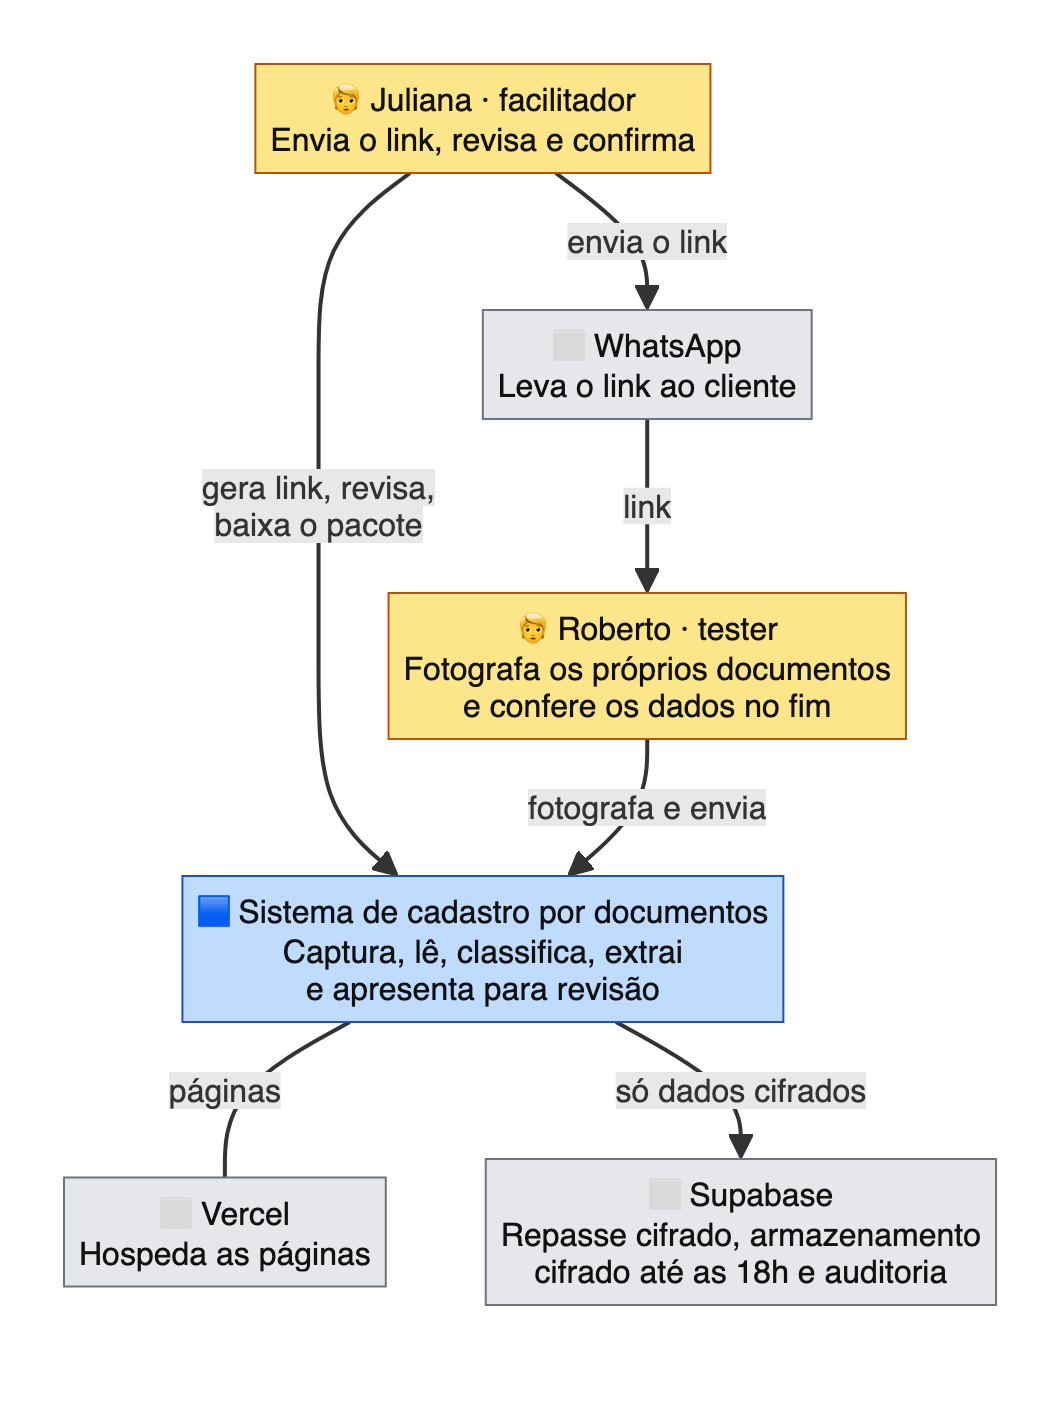
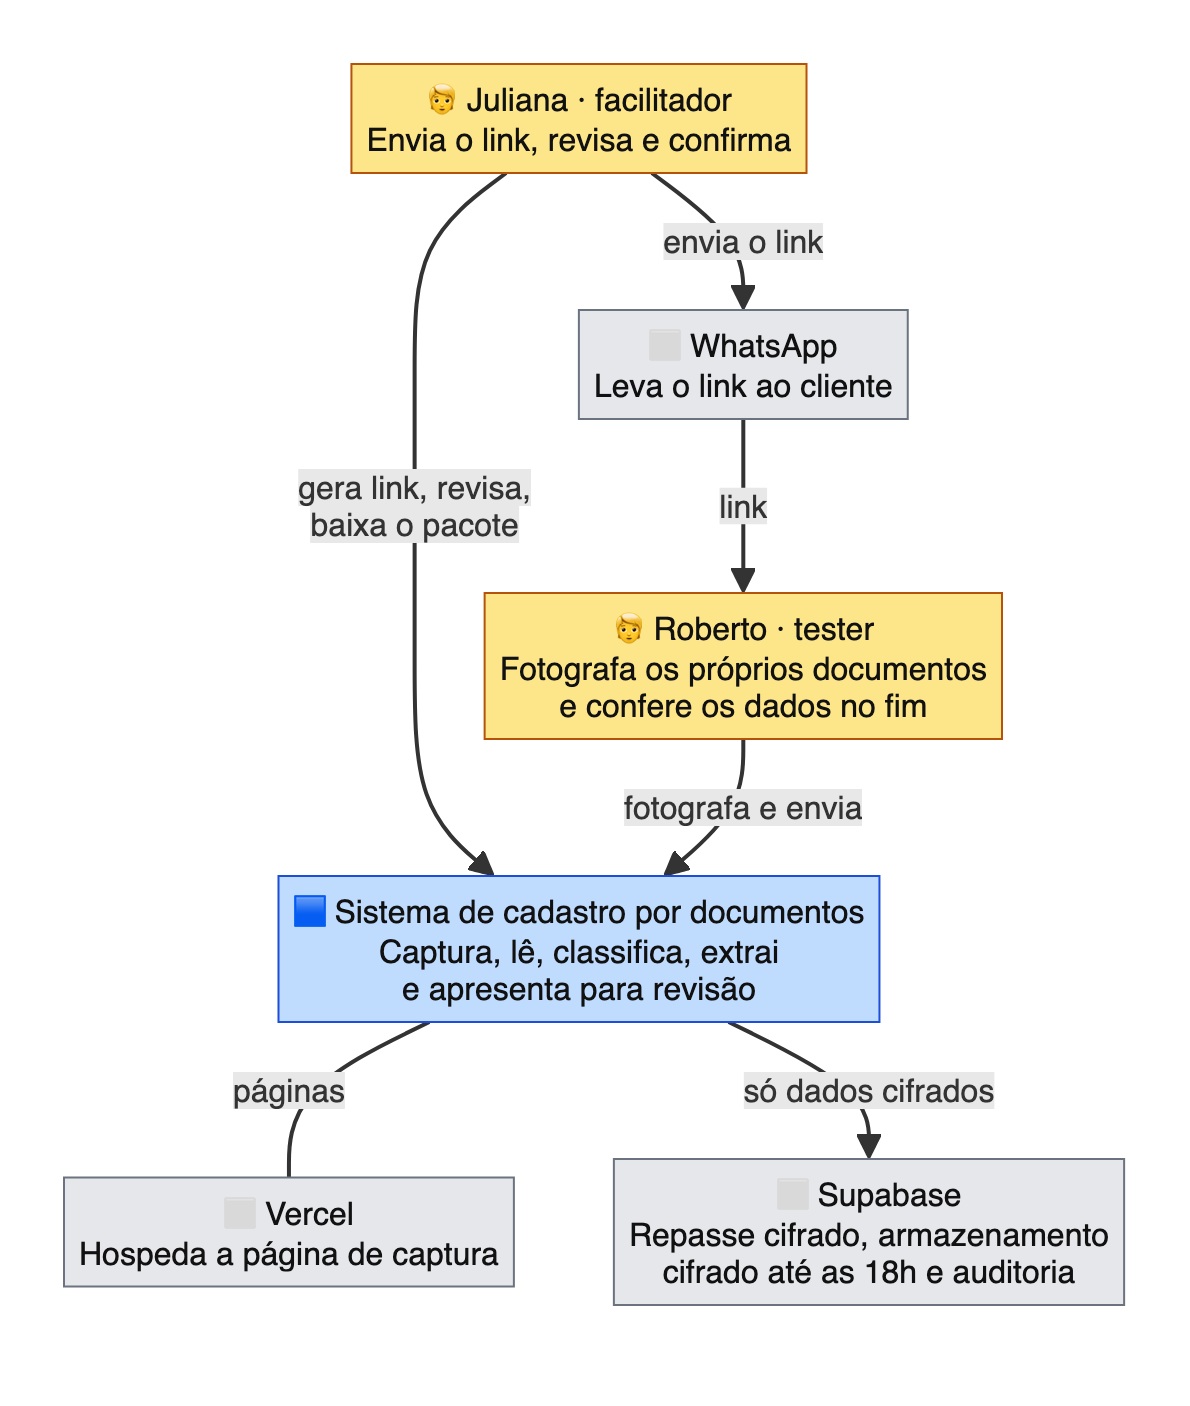
Etapa 8 concluída: prova de conceito 2 (Safari bloqueia) e ADR 0011

Changed region(s): [[0.0311, 0.0306, 0.9633, 0.9481]]

diff --git a/poc/02-localhost/pagina/local.html b/poc/02-localhost/pagina/local.html
@@ -1,0 +1,44 @@
+<!doctype html>
+<html lang="pt-BR">
+<head>
+<meta charset="utf-8">
+<meta name="viewport" content="width=device-width, initial-scale=1">
+<title>Prova de conceito 2b</title>
+<style>
+  :root { --bg:#fff; --fg:#111; --ok:#047857; --err:#b91c1c; --line:#e5e7eb; }
+  @media (prefers-color-scheme: dark) { :root:not([data-theme="light"]) { --bg:#111; --fg:#eee; --ok:#34d399; --err:#f87171; --line:#333; } }
+  body { background:var(--bg); color:var(--fg); font:16px/1.5 -apple-system, system-ui, sans-serif; margin:0; padding:16px; max-width:720px; }
+  button { font:inherit; padding:8px 14px; } pre { border:1px solid var(--line); padding:12px; white-space:pre-wrap; }
+  .ok { color:var(--ok); } .err { color:var(--err); }
+</style>
+</head>
+<body>
+<h1>Prova de conceito 2b</h1>
+<p>Esta página é servida pelo próprio motor, no Mac (localhost).</p>
+<button id="t">Rodar os testes</button>
+<pre id="saida">Aguardando…</pre>
+<script>
+  const s = document.getElementById('saida');
+  const log = (t, ok) => { s.innerHTML += `\n<span class="${ok ? 'ok' : 'err'}">${ok ? '✅' : '❌'} ${t}</span>`; };
+  document.getElementById('t').onclick = async () => {
+    s.textContent = navigator.userAgent;
+    log(`Contexto seguro: ${window.isSecureContext}`, window.isSecureContext);
+    try {
+      const k = await crypto.subtle.generateKey({ name: 'AES-GCM', length: 256 }, false, ['encrypt']);
+      await crypto.subtle.encrypt({ name: 'AES-GCM', iv: crypto.getRandomValues(new Uint8Array(12)) }, k, new Uint8Array(1024));
+      log('Criptografia do navegador (AES-GCM) disponível', true);
+    } catch (e) { log(`Criptografia: ${e.name}: ${e.message}`, false); }
+    try {
+      const r = await fetch('/processar', { method: 'POST', body: new Uint8Array(1024 * 1024) });
+      log(`Envio de 1 MB ao motor: ${JSON.stringify(await r.json())}`, r.ok);
+    } catch (e) { log(`Envio ao motor: ${e.name}: ${e.message}`, false); }
+    try {
+      const ws = new WebSocket('wss://echo.websocket.org');
+      await new Promise((ok, falha) => { ws.onopen = ok; ws.onerror = falha; setTimeout(falha, 5000); });
+      ws.close();
+      log('Conexão segura com serviço na internet (WebSocket, como o do Supabase)', true);
+    } catch (e) { log('Conexão WebSocket com a internet falhou', false); }
+  };
+</script>
+</body>
+</html>

diff --git a/poc/02-localhost/pagina/index.html b/poc/02-localhost/pagina/index.html
@@ -1,0 +1,43 @@
+<!doctype html>
+<html lang="pt-BR">
+<head>
+<meta charset="utf-8">
+<meta name="viewport" content="width=device-width, initial-scale=1">
+<title>Prova de conceito 2</title>
+<style>
+  :root { --bg:#fff; --fg:#111; --muted:#555; --ok:#047857; --err:#b91c1c; --line:#e5e7eb; }
+  @media (prefers-color-scheme: dark) { :root:not([data-theme="light"]) { --bg:#111; --fg:#eee; --muted:#aaa; --ok:#34d399; --err:#f87171; --line:#333; } }
+  body { background:var(--bg); color:var(--fg); font:16px/1.5 -apple-system, system-ui, sans-serif; margin:0; padding:16px; max-width:720px; }
+  button { font:inherit; padding:8px 14px; margin:4px 4px 4px 0; cursor:pointer; }
+  pre { background:transparent; border:1px solid var(--line); padding:12px; white-space:pre-wrap; word-break:break-word; }
+  .ok { color:var(--ok); } .err { color:var(--err); } small { color:var(--muted); }
+</style>
+</head>
+<body>
+<h1>Prova de conceito 2</h1>
+<p>Esta página está na internet (HTTPS). Ela tenta falar com o motor simulado rodando no seu Mac, na porta 8787.</p>
+<button id="t1">1 · localhost</button>
+<button id="t2">2 · 127.0.0.1</button>
+<button id="t3">3 · enviar 1 MB</button>
+<pre id="saida">Aguardando teste…</pre>
+<small id="nav"></small>
+<script>
+  const saida = document.getElementById('saida');
+  document.getElementById('nav').textContent = navigator.userAgent;
+  const log = (txt, ok) => { saida.innerHTML += `\n<span class="${ok ? 'ok' : 'err'}">${txt}</span>`; };
+  async function testar(rotulo, url, corpo) {
+    const t0 = performance.now();
+    try {
+      const r = await fetch(url, corpo ? { method: 'POST', body: corpo, headers: { 'Content-Type': 'application/octet-stream' } } : {});
+      const j = await r.json();
+      log(`✅ ${rotulo}: ${JSON.stringify(j)} em ${Math.round(performance.now() - t0)} ms`, true);
+    } catch (e) {
+      log(`❌ ${rotulo}: ${e.name}: ${e.message}`, false);
+    }
+  }
+  document.getElementById('t1').onclick = () => testar('localhost', 'http://localhost:8787/saude');
+  document.getElementById('t2').onclick = () => testar('127.0.0.1', 'http://127.0.0.1:8787/saude');
+  document.getElementById('t3').onclick = () => testar('envio de 1 MB', 'http://127.0.0.1:8787/processar', new Uint8Array(1024 * 1024));
+</script>
+</body>
+</html>

diff --git a/poc/02-localhost/motor_simulado.py b/poc/02-localhost/motor_simulado.py
@@ -1,0 +1,55 @@
+"""Motor simulado para a prova de conceito 2.
+
+Responde no endereço local do Mac (porta 8787), como o motor real fará,
+para testar se uma página hospedada na Vercel (HTTPS) consegue chamá-lo.
+Não processa nada: devolve uma resposta fixa e o tamanho do que recebeu.
+
+Uso: python3 motor_simulado.py https://<pagina>.vercel.app
+"""
+
+import json
+import sys
+from http.server import BaseHTTPRequestHandler, ThreadingHTTPServer
+
+ORIGEM = sys.argv[1].rstrip("/") if len(sys.argv) > 1 else "*"
+
+
+class Motor(BaseHTTPRequestHandler):
+    def _cabecalhos(self, status=200):
+        self.send_response(status)
+        self.send_header("Access-Control-Allow-Origin", ORIGEM)
+        self.send_header("Access-Control-Allow-Methods", "GET, POST, OPTIONS")
+        self.send_header("Access-Control-Allow-Headers", "Content-Type")
+        # Chrome: permissão para uma página pública acessar a rede local
+        self.send_header("Access-Control-Allow-Private-Network", "true")
+        self.send_header("Content-Type", "application/json")
+        self.end_headers()
+
+    def do_OPTIONS(self):
+        self._cabecalhos(204)
+
+    def do_GET(self):
+        if self.path in ("/", "/local.html"):
+            # Prova 2b: a aplicação do escritório é servida pelo próprio motor
+            corpo = open(__file__.replace("motor_simulado.py", "pagina/local.html"), "rb").read()
+            self.send_response(200)
+            self.send_header("Content-Type", "text/html; charset=utf-8")
+            self.end_headers()
+            self.wfile.write(corpo)
+            return
+        self._cabecalhos()
+        self.wfile.write(json.dumps({"motor": "ok"}).encode())
+
+    def do_POST(self):
+        tamanho = int(self.headers.get("Content-Length", 0))
+        self.rfile.read(tamanho)  # descartado: nada é guardado
+        self._cabecalhos()
+        self.wfile.write(json.dumps({"tipo": "cnh", "recebidos_bytes": tamanho}).encode())
+
+    def log_message(self, formato, *args):
+        sys.stderr.write(f"{self.headers.get('Origin', '-')} {formato % args}\n")
+
+
+if __name__ == "__main__":
+    print(f"Motor simulado em http://127.0.0.1:8787 · origem permitida: {ORIGEM}")
+    ThreadingHTTPServer(("127.0.0.1", 8787), Motor).serve_forever()

diff --git a/docs/etapas/08-arquitetura-e-poc.md b/docs/etapas/08-arquitetura-e-poc.md
@@ -1,6 +1,6 @@
 # Etapa 8: Arquitetura detalhada e prova de conceito
 
-**Status:** 🟡 Em andamento · 11/11/2026
+**Status:** ✅ Concluída · 11/11/2026 (o nível de componentes do C4 fica para a construção)
 **Papéis:** Arquiteto, Dev
 
 A etapa tem duas partes:
@@ -64,3 +64,41 @@ Cada pedaço tem 128 KB de conteúdo cifrado, o que dá cerca de 171 KB por mens
 | Folga até o limite documentado de 256 KB | Cerca de 85 KB, contra 16 KB do pedaço de 180 KB |
 | Velocidade | Foto de 2 MB em ~0,4 s, contra ~0,3 s do pedaço maior; diferença imperceptível |
 | Volume de sessões simultâneas | O plano gratuito aceita 100 mensagens por segundo por projeto. Uma foto de 2 MB gera 17 mensagens, então cerca de 5 fotos podem ser enviadas no mesmo segundo. É suficiente para as sessões do estudo; pedaços menores consumiriam essa cota mais rápido |
+
+---
+
+## Prova de conceito 2: a página na internet consegue falar com o motor no Mac?
+
+**Risco:** pelo desenho original, a aplicação do escritório ficaria na Vercel, com conexão segura (`https`), e chamaria o motor no Mac pelo endereço `localhost`, com conexão simples (`http`). Navegadores costumam bloquear esse tipo de chamada.
+
+**Como foi testado** ([`poc/02-localhost/`](../../poc/02-localhost/)):
+- Um **motor simulado** no Mac, na porta 8787, que responde com dados fixos e descarta o que recebe.
+- Uma **página de teste publicada na Vercel**, com três botões: chamar `localhost`, chamar `127.0.0.1` e enviar 1 MB ao motor.
+
+### Resultado (11/11/2026)
+
+| Navegador | `localhost` | `127.0.0.1` | Envio de 1 MB | Observação |
+|---|---|---|---|---|
+| Chrome 156 | ✅ | ✅ 26 ms | ✅ 15 ms | Só depois de o usuário clicar em "Permitir" num aviso de acesso à rede local |
+| Safari 26 | ❌ | ❌ | ❌ | "Load failed": o pedido nem chega ao motor |
+
+**Diagnóstico:** o Safari não deixa uma página segura chamar um endereço não seguro, nem quando é o próprio computador. O Chrome abre uma exceção para o computador, mas só com autorização do usuário, o que exigiria explicar o aviso à Juliana no primeiro uso.
+
+### Prova de conceito 2b: aplicação servida pelo motor
+
+A alternativa escolhida foi servir a aplicação do escritório pelo próprio motor, em `http://localhost:8787`, com a página e o motor no mesmo endereço.
+
+| Verificação | Chrome 156 | Safari 26 |
+|---|---|---|
+| O navegador considera o endereço seguro | ✅ | ✅ |
+| Criptografia do navegador (AES-GCM) disponível | ✅ | ✅ |
+| Envio de 1 MB ao motor | ✅ | ✅ |
+| Conexão com serviço na internet por WebSocket, como o do Supabase | ✅ | ✅ |
+
+Nenhum aviso de permissão apareceu nos dois navegadores.
+
+### Conclusão
+
+- **O risco se confirmou** e mudou a arquitetura do estudo: a Vercel hospeda só a página de captura, e a aplicação do escritório é servida pelo motor ([ADR 0011](../decisoes/0011-aplicacao-do-escritorio-servida-pelo-motor.md)).
+- **Em produção o problema não existe,** porque o motor fica num servidor na nuvem, com conexão segura ([ADR 0010](../decisoes/0010-motor-em-producao.md)).
+- **A prova de conceito cumpriu o papel:** o problema foi descoberto antes de existir código do produto para refazer.

diff --git a/docs/decisoes/0011-aplicacao-do-escritorio-servida-pelo-motor.md b/docs/decisoes/0011-aplicacao-do-escritorio-servida-pelo-motor.md
@@ -1,0 +1,42 @@
+# 0011 — Aplicação do escritório servida pelo motor local
+
+**Data:** 11/11/2026
+**Status:** Aceita · vale só para o estudo de caso · altera parte do [ADR 0005](0005-infraestrutura-vercel-supabase-realtime.md)
+
+## Contexto
+
+Pelo desenho original ([ADR 0005](0005-infraestrutura-vercel-supabase-realtime.md)), a Vercel hospedaria as duas páginas: a de captura, usada no celular, e a aplicação do escritório, usada no computador. A aplicação do escritório chamaria o motor de extração no Mac pelo endereço `localhost`.
+
+A prova de conceito 2 ([Etapa 8](../etapas/08-arquitetura-e-poc.md#prova-de-conceito-2-a-página-na-internet-consegue-falar-com-o-motor-no-mac)) testou essa chamada:
+
+| Navegador | Página na Vercel chamando o motor no Mac |
+|---|---|
+| Chrome 156 | ✅ Funciona, depois que o usuário autoriza o acesso à rede local num aviso do navegador |
+| Safari 26 | ❌ Bloqueia sempre, sem aviso: uma página segura (`https`) não pode chamar um endereço não seguro (`http`) |
+
+O requisito de compatibilidade (RNF-09) exige Chrome e Safari no computador.
+
+## Decisão
+
+No estudo, **a aplicação do escritório é servida pelo próprio motor**, em `http://localhost`. A página e o motor ficam no mesmo endereço, e não há chamada entre um site da internet e o computador.
+
+| Página | Onde fica |
+|---|---|
+| Página de captura (celular) | Vercel, como antes |
+| Aplicação do escritório (computador) | Servida pelo motor, no Mac |
+
+A prova de conceito 2b confirmou, no Chrome e no Safari:
+- o navegador considera `localhost` um endereço seguro, então a criptografia do navegador (Web Crypto, AES-GCM) funciona;
+- a aplicação envia a imagem ao motor sem bloqueio;
+- a aplicação se conecta a serviços na internet por WebSocket, como o Supabase.
+
+## Alternativas consideradas
+
+- **Certificado local para o motor responder com conexão segura** — manteria as duas páginas na Vercel, mas exige instalar um certificado nas configurações de segurança do Mac. Recusada pela complexidade de instalação.
+- **Usar só o Chrome no estudo** — mais simples, mas descumpre o requisito de compatibilidade (RNF-09) e depende de o usuário aceitar o aviso de rede local. Recusada.
+
+## Consequências
+
+- **O aviso de rede local do Chrome deixa de aparecer**, porque a aplicação não é mais um site da internet chamando o computador.
+- **A aplicação do escritório só abre no Mac onde o motor roda.** Para o estudo isso não muda nada, já que o motor era local de qualquer forma.
+- **Em produção o problema não existe:** o motor fica num servidor na nuvem, com conexão segura ([ADR 0010](0010-motor-em-producao.md)).

diff --git a/README.md b/README.md
@@ -2,7 +2,7 @@
 
 Sistema que lê **notas fiscais (NF-e), boletos, faturas de serviço e documentos pessoais (CNH e RG)**, identifica sozinho o tipo de documento, extrai os dados e mostra tudo na tela. Projeto de **estudo de caso e pesquisa**, sem fins comerciais, documentado passo a passo desde a concepção que exercita os papéis de **PM, Arquitetura, PO, Desenvolvimento, Front-end, UX e QA**, com foco em **cadastro ágil e preciso de clientes em escritórios de advocacia de alto volume**.
 
-> **Status:** 🟡 Etapas 0 a 7 concluídas · próxima: Etapa 8, Arquitetura detalhada e prova de conceito
+> **Status:** 🟡 Etapas 0 a 8 concluídas · próxima: Etapa 9, captura pelo celular
 
 ## Objetivo
 
@@ -46,7 +46,7 @@ Cada etapa produz artefatos ligados a um ou mais papéis ([mapa de competências
 | 5 | [Métricas](docs/etapas/05-metricas.md) | North Star, métricas de apoio e proteção, árvore de métricas, OKRs | ✅ Concluída |
 | 6 | [Priorização e roadmap](docs/etapas/06-priorizacao.md) | Backlog, RICE, escopo do MVP, DoR/DoD, roadmap | ✅ Concluída |
 | 7 | [Business case](docs/etapas/07-business-case.md) | Receita, custos, mercado, licenciamento, stakeholders (hipotético) | ✅ Concluída |
-| 8 | [Arquitetura detalhada e prova de conceito](docs/etapas/08-arquitetura-e-poc.md) | Diagrama C4; Broadcast em pedaços; Vercel → `localhost` | 🟡 Em andamento |
+| 8 | [Arquitetura detalhada e prova de conceito](docs/etapas/08-arquitetura-e-poc.md) | [C4](docs/arquitetura/c4.md); envio em pedaços ✅; Vercel → `localhost` ❌ no Safari, resolvido pelo [ADR 0011](docs/decisoes/0011-aplicacao-do-escritorio-servida-pelo-motor.md) | ✅ Concluída |
 | 9 | Incremento 1: captura pelo celular | Wireframes e microcopy da captura; motor simulado; HU-02, 06, 07, 13, 14, 18, 20 | ⚪ Pendente |
 | 10 | Incrementos 2 e 3: motor real | NF-e por importação, depois documentos pessoais e demais tipos; linha de base e metas dos OKRs | ⚪ Pendente |
 | 11 | Tela de revisão e funções do escritório | Wireframes; revisão acessível; pacote, registro de acessos, dado errado (incremento 4) | ⚪ Pendente |

diff --git a/docs/arquitetura/c4.md b/docs/arquitetura/c4.md
@@ -23,7 +23,7 @@ flowchart TB
     SIS["🟦 Sistema de cadastro por documentos<br/>Captura, lê, classifica, extrai<br/>e apresenta para revisão"]
 
     WPP["⬜ WhatsApp<br/>Leva o link ao cliente"]
-    VER["⬜ Vercel<br/>Hospeda as páginas"]
+    VER["⬜ Vercel<br/>Hospeda a página de captura"]
     SUP["⬜ Supabase<br/>Repasse cifrado, armazenamento<br/>cifrado até as 18h e auditoria"]
 
     JUL -- "gera link, revisa,<br/>baixa o pacote" --> SIS
@@ -113,7 +113,7 @@ flowchart LR
         AUD[("Tabela de auditoria<br/>Só inclusão, sem dados pessoais<br/>Não é removida às 18h")]
     end
 
-    VER["⬜ Vercel<br/>Hospeda as duas páginas"]
+    VER["⬜ Vercel<br/>Hospeda a página de captura"]
 
     CAP -- "pedaços cifrados" --> BRO
     BRO -- "pedaços cifrados" --> APP
@@ -125,7 +125,7 @@ flowchart LR
     APP -- "abrir, baixar, excluir" --> AUD
     APP -- "cifrado com a chave do dia" --> STO
     VER -. "entrega" .-> CAP
-    VER -. "entrega" .-> APP
+    MOT -. "serve a aplicação<br/>em localhost" .-> APP
 
     classDef nosso fill:#bfdbfe,stroke:#1d4ed8,color:#111
     classDef externo fill:#e5e7eb,stroke:#6b7280,color:#111
@@ -187,4 +187,4 @@ flowchart LR
 | Autenticação | Perfil simulado | Login com perfis e segundo fator |
 | Novo | — | API do produto, que concentra regras, isolamento entre escritórios e auditoria |
 
-**Ponto de atenção:** no estudo, a página na nuvem (Vercel) chama o motor no Mac pelo endereço `localhost`. Navegadores podem bloquear essa chamada. É o segundo risco da prova de conceito. Em produção, o risco desaparece, porque o motor fica na nuvem.
+**Mudança depois da prova de conceito 2:** o Safari bloqueia uma página da internet chamando o motor no Mac. Por isso, no estudo, a aplicação do escritório é servida pelo próprio motor, em `localhost`, e a Vercel hospeda só a página de captura ([ADR 0011](../decisoes/0011-aplicacao-do-escritorio-servida-pelo-motor.md)). Em produção o problema não existe, porque o motor fica na nuvem.

diff --git a/docs/competencias.md b/docs/competencias.md
@@ -34,8 +34,8 @@ Legenda: ✅ demonstrado · 🟡 parcial · ⚪ planejado
 | Segurança por arquitetura | Criptografia ponta a ponta com chave no fragmento da URL; servidor cego ao conteúdo | ✅ |
 | Diagramas de arquitetura | [Fluxogramas](arquitetura/fluxogramas.md): componentes, sequência, estados | ✅ |
 | Desacoplamento e portabilidade | Interface de OCR trocável | 🟡 Na implementação |
-| Gestão de riscos técnicos | Prova de conceito antes de construir (Etapa 8) | ⚪ |
-| Modelo C4 (contexto, contêineres, componentes) | — | ⚪ |
+| Gestão de riscos técnicos | [Duas provas de conceito](etapas/08-arquitetura-e-poc.md): uma eliminou o risco, a outra o confirmou e mudou a arquitetura ([ADR 0011](decisoes/0011-aplicacao-do-escritorio-servida-pelo-motor.md)) | ✅ |
+| Modelo C4 (contexto, contêineres, componentes) | [Contexto e contêineres](arquitetura/c4.md), estudo e produção lado a lado | 🟡 Componentes na construção |
 
 ## Product Owner: o que entra em cada entrega
 

diff --git a/docs/decisoes/README.md b/docs/decisoes/README.md
@@ -36,3 +36,4 @@ O que muda, o que fica mais fácil e o que fica mais difícil.
 | [0008](0008-armazenamento-em-producao.md) | Armazenamento em produção: criptografia com chave por escritório, controle de acesso, auditoria e retenção definida pelo escritório | Aceita como referência (não implementada) |
 | [0009](0009-registro-de-auditoria-no-estudo.md) | Registro de auditoria no estudo: abrir, baixar e excluir documento, sem dados pessoais, com perfil simulado | Aceita |
 | [0010](0010-motor-em-producao.md) | Motor em produção: servidor próprio na nuvem com PaddleOCR, sem IA de terceiros | Aceita como referência (não implementada) |
+| [0011](0011-aplicacao-do-escritorio-servida-pelo-motor.md) | Aplicação do escritório servida pelo motor local (o Safari bloqueia a página da Vercel chamando o Mac) | Aceita (só no estudo) |

diff --git a/docs/arquitetura/fluxogramas.md b/docs/arquitetura/fluxogramas.md
@@ -20,7 +20,7 @@ flowchart LR
   end
 
   subgraph NUVEM["☁ Nuvem · só dados cifrados"]
-    VERCEL["Vercel<br/>hospeda as páginas"]
+    VERCEL["Vercel<br/>hospeda a página de captura"]
     SUPA["Supabase Realtime Broadcast<br/>canal efêmero por sessão"]
     STORE[("Supabase Storage + tabela<br/>só conteúdo cifrado<br/>removido às 18h")]
     AUD[("Tabela auditoria<br/>só inclusão · sem dados pessoais<br/>não é removida às 18h")]
@@ -46,7 +46,7 @@ flowchart LR
   end
 
   VERCEL -. "entrega HTML/JS" .-> CAP
-  VERCEL -. "entrega HTML/JS" .-> REV
+  MOTOR -. "serve a aplicação<br/>em localhost (ADR 0011)" .-> REV
   QR -- "QR: sessão + chave no #fragmento" --> CAP
   CRIP1 -- "pedaços cifrados" --> SUPA
   SUPA -- "pedaços cifrados" --> CRIP2

diff --git a/docs/decisoes/0005-infraestrutura-vercel-supabase-realtime.md b/docs/decisoes/0005-infraestrutura-vercel-supabase-realtime.md
@@ -1,7 +1,7 @@
 # 0005 — Infraestrutura: Vercel para o frontend e Supabase Realtime Broadcast como canal de repasse
 
 **Data:** 10/11/2026
-**Status:** Aceita (a proibição de banco e Storage foi substituída pelo [ADR 0007](0007-retencao-temporaria-e-purga-diaria.md): permitidos somente com conteúdo cifrado e remoção diária)
+**Status:** Aceita (no estudo, a aplicação do escritório passou a ser servida pelo motor local, e a Vercel hospeda só a página de captura: [ADR 0011](0011-aplicacao-do-escritorio-servida-pelo-motor.md); a proibição de banco e Storage foi substituída pelo [ADR 0007](0007-retencao-temporaria-e-purga-diaria.md): permitidos somente com conteúdo cifrado e remoção diária)
 
 ## Contexto
 
